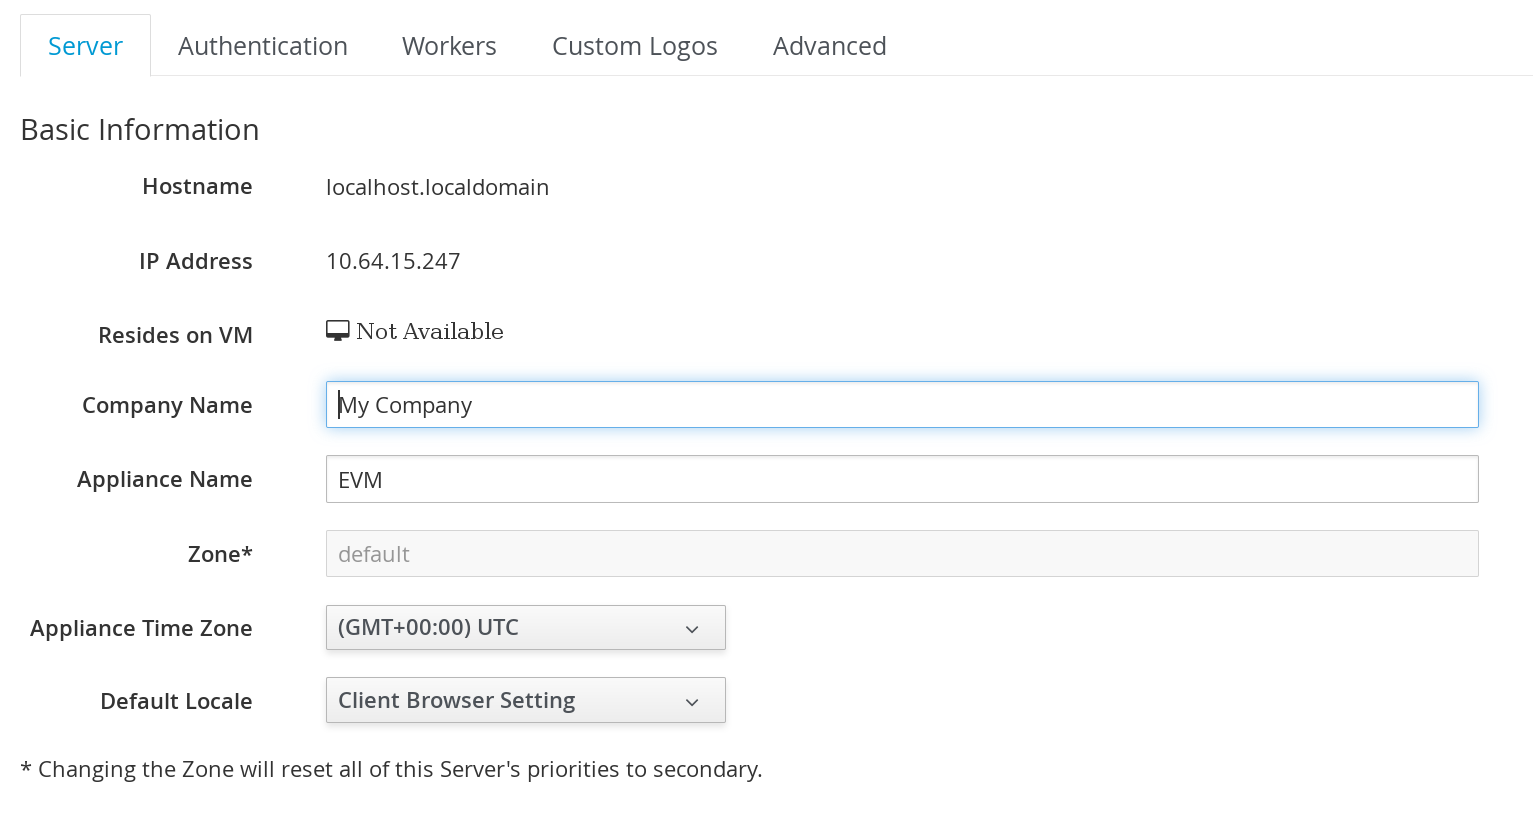
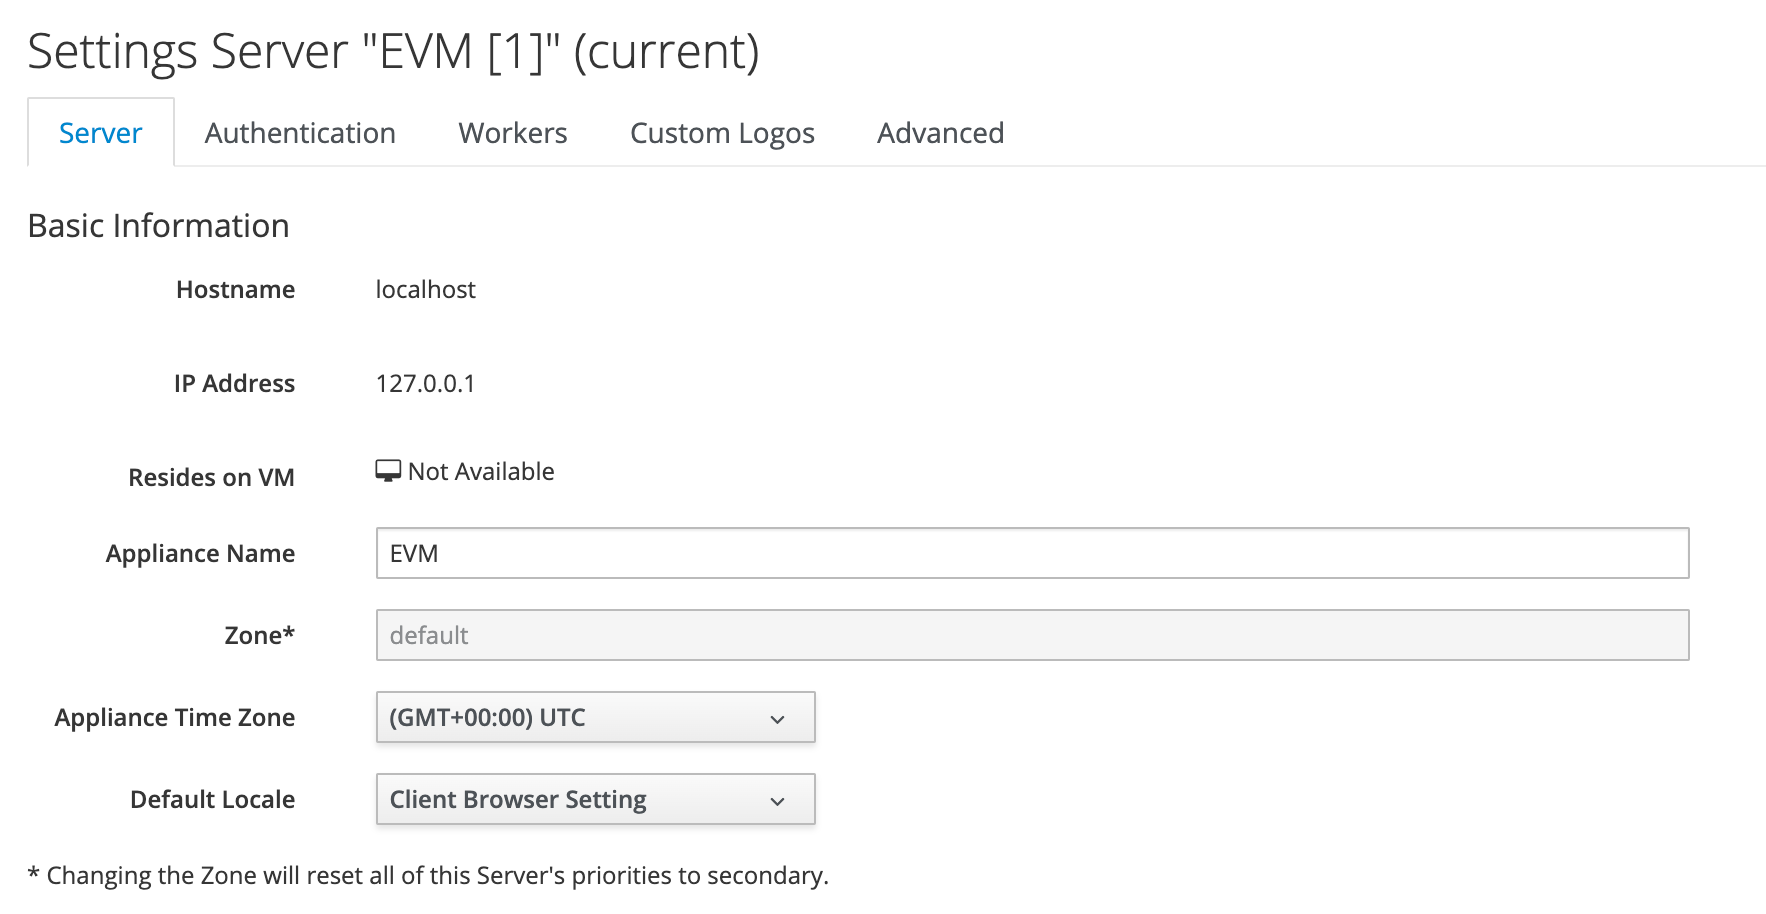
Remove settings.server.company
The company name is now read from the tenant

diff --git a/general_configuration/_topics/configuration.md b/general_configuration/_topics/configuration.md
@@ -592,8 +592,8 @@ To change server settings:
 
 ###### Basic Information Settings ![2059](../images/2059.png)
 
-  - Use **Company Name** (maximum 20 characters) to customize the
-    interface with your company’s name. You will see the company name
+  - There is no longer a **Company Name** field here. Use the root Tenant's
+    name to customize the interface with your company’s name. You will see the company name
     when you are viewing or modifying the tags of an infrastructure
     object or virtual machine.
 
@@ -1271,7 +1271,6 @@ Table: server
 | Parameters                    | Description                                                                                                                                                                                                                                                                                                                                                                                                                                                                                                                                                                               |
 | ----------------------------- | ----------------------------------------------------------------------------------------------------------------------------------------------------------------------------------------------------------------------------------------------------------------------------------------------------------------------------------------------------------------------------------------------------------------------------------------------------------------------------------------------------------------------------------------------------------------------------------------- |
 | case\_sensitive\_name\_search | Specify if you want the search by name on configuration item screens to be case senstive. Default: false                                                                                                                                                                                                                                                                                                                                                                                                                                                                                  |
-| company                       | Specify the label you want to use for your company’s tagging. This is the same as Company Name in Configuration-Operations- Server-Basic Info. Default: "My Company"                                                                                                                                                                                                                                                                                                                                                                                                                      |
 | custom\_logo                  | Specify if you want to use a custom logo. This is the same as Use Custom Logo in Configuration-Custom Logo-Logo Selection. Default: false                                                                                                                                                                                                                                                                                                                                                                                                                                                 |
 | events                        |                                                                                                                                                                                                                                                                                                                                                                                                                                                                                                                                                                                           |
 | disk\_usage\_gt\_percent      | For {{ site.data.product.title_short }} operational alerts, specify at what threshold the disk usage alerts will be triggered. Default: 80                                                                                                                                                                                                                                                                                                                                                                                                                                                                    |
